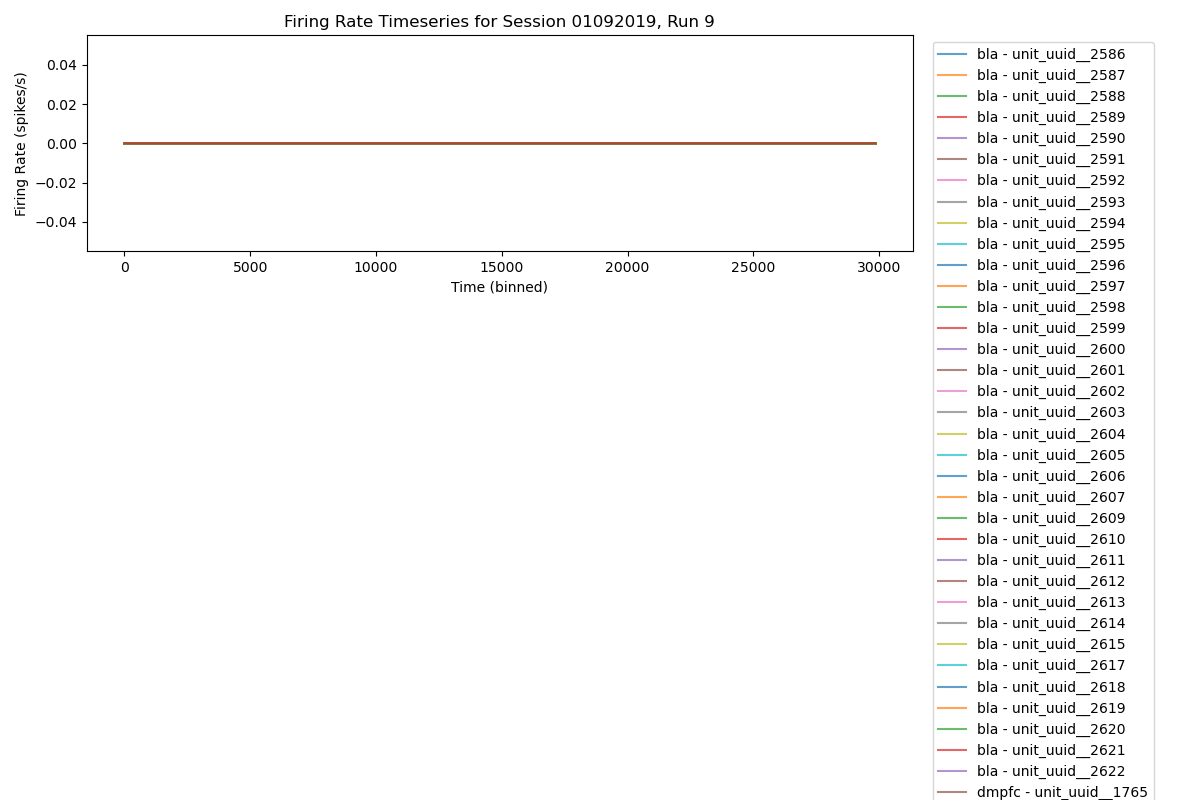
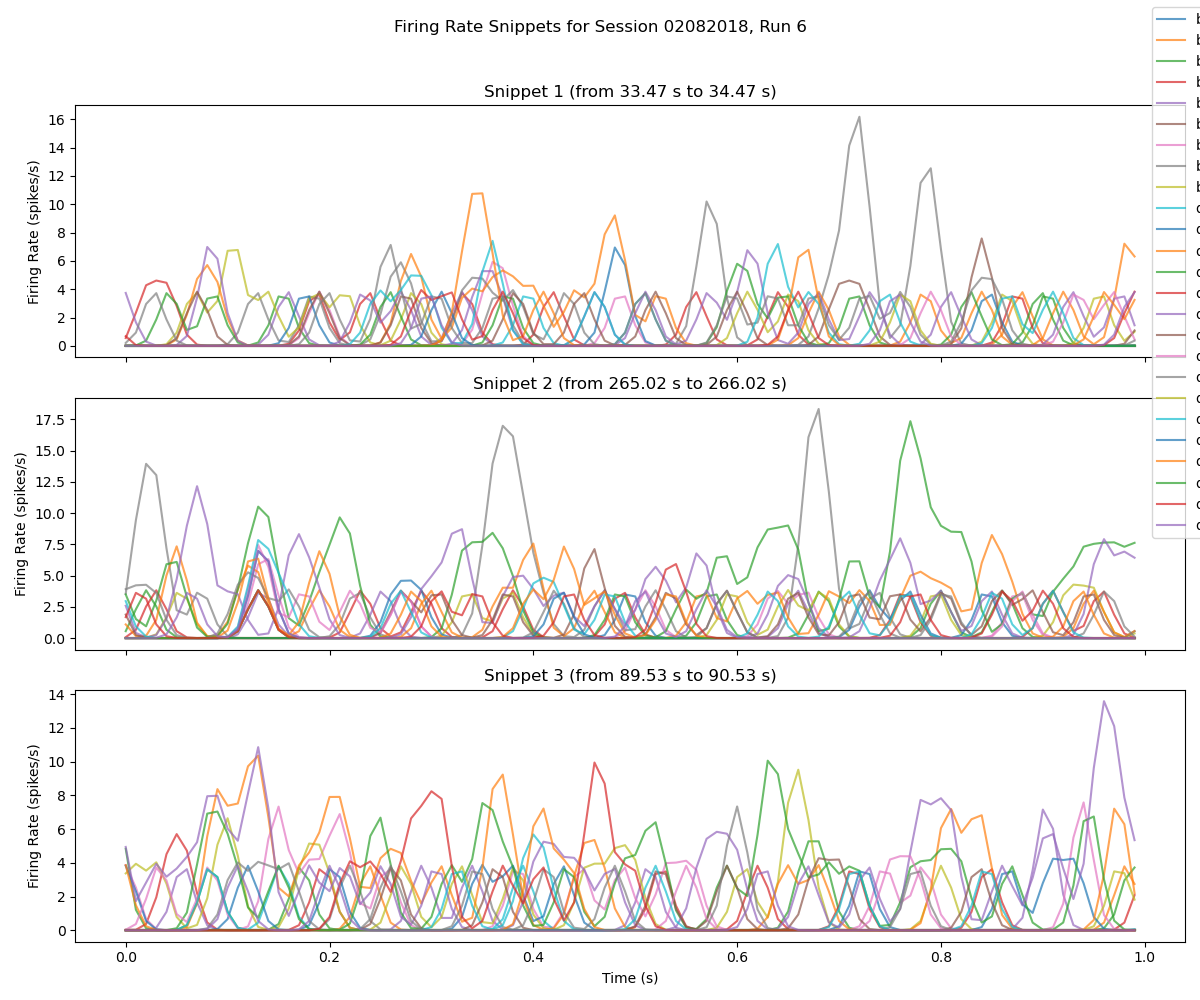
add spurm script to install pytorchh through conda because installation is tie consuming

diff --git a/plotter.py b/plotter.py
@@ -12,6 +12,7 @@ from matplotlib import cm
 from datetime import datetime
 from multiprocessing import Pool
 from tqdm import tqdm
+import random
 
 
 # Set up a logger for this script
@@ -198,44 +199,43 @@ def _overlay_roi_rects_for_run(agent_gaze_data, axs):
                                        edgecolor='red', facecolor='none'))
 
 
-
-
-import matplotlib.pyplot as plt
-import numpy as np
-import random
-
-def plot_random_run_timeseries(neural_fr_timeseries_df):
+def plot_random_run_snippets(neural_fr_timeseries_df, snippet_duration=1, bin_width=0.01):
     """
-    Plot firing rate timeseries for a random run in a random session for all units and regions, and save as plot.png.
+    Plot three random 1-second snippets of firing rate timeseries for a random run in a random session.
     Args:
         neural_fr_timeseries_df (pd.DataFrame): DataFrame with firing rate timeseries for each session, interaction type,
                                                 run, region, and unit.
+        snippet_duration (int): Duration of each snippet in seconds.
     """
     # Select a random session and run
     random_session = random.choice(neural_fr_timeseries_df['session_name'].unique())
     session_df = neural_fr_timeseries_df[neural_fr_timeseries_df['session_name'] == random_session]
     random_run = random.choice(session_df['run_number'].unique())
-    
     # Filter DataFrame for the selected session and run
     run_df = session_df[session_df['run_number'] == random_run]
-
-    # Plot firing rates for all units in all regions for this run
-    plt.figure(figsize=(12, 8))
-    for _, row in run_df.iterrows():
-        unit_timeseries = row['binned_neural_fr_in_run']
-        time_points = np.arange(len(unit_timeseries))  # Generate time points based on the length of the timeseries
-        
-        # Plot each unit's timeseries
-        plt.plot(time_points, unit_timeseries, label=f"{row['region']} - {row['unit_uuid']}", alpha=0.7)
-    
-    # Add labels and title
-    plt.xlabel("Time (binned)")
-    plt.ylabel("Firing Rate (spikes/s)")
-    plt.title(f"Firing Rate Timeseries for Session {random_session}, Run {random_run}")
-    plt.legend(loc="upper right", bbox_to_anchor=(1.3, 1.0))
-    plt.tight_layout()
-    
-    # Save the plot as plot.png
+    # Calculate the number of bins per snippet
+    bins_per_snippet = int(snippet_duration / bin_width)
+    sampling_rate = bins_per_snippet / snippet_duration
+    # Plot three random 1-second snippets in subplots
+    fig, axes = plt.subplots(3, 1, figsize=(12, 10), sharex=True)
+    fig.suptitle(f"Firing Rate Snippets for Session {random_session}, Run {random_run}")
+    for i, ax in enumerate(axes):
+        # Select a random start point for each snippet
+        max_start = len(run_df.iloc[0]['binned_neural_fr_in_run']) - bins_per_snippet
+        start_bin = random.randint(0, max_start)
+        end_bin = start_bin + bins_per_snippet
+        # Plot each unit's snippet within the chosen range
+        for _, row in run_df.iterrows():
+            unit_timeseries = row['binned_neural_fr_in_run'][start_bin:end_bin]
+            time_points = np.arange(len(unit_timeseries)) / sampling_rate  # Time in seconds
+            ax.plot(time_points, unit_timeseries, label=f"{row['region']} - {row['unit_uuid']}", alpha=0.7)
+        ax.set_title(f"Snippet {i + 1} (from {start_bin / sampling_rate:.2f} s to {end_bin / sampling_rate:.2f} s)")
+        ax.set_ylabel("Firing Rate (spikes/s)")
+    # Finalize plot
+    axes[-1].set_xlabel("Time (s)")
+    handles, labels = axes[-1].get_legend_handles_labels()
+    fig.legend(handles, labels, loc="upper right", bbox_to_anchor=(1.15, 1.0))
+    plt.tight_layout(rect=[0, 0, 1, 0.96])
     plt.savefig("plot.png")
     plt.close()
     print(f"Plot saved as plot.png for session {random_session}, run {random_run}")

diff --git a/modeling/train.py b/modeling/train.py
@@ -13,6 +13,7 @@ def main():
     params = {}
     params.update({
         'sampling_rate': 1 / 1000,
+
         'is_cluster': True,
         'is_grace': False,
         'use_parallel': True,
@@ -20,15 +21,23 @@ def main():
         'use_toy_data': False,
         'remake_toy_data': False,
         'num_cpus': None,
-        'do_local_reclustering_in_parallel': False,
+
+
         'remake_gaze_data_df': False,
+        'remake_spike_times_df': False,
         'remake_nan_removed_gaze_data_df': False,
+
         'remake_fix_and_sacc': False,
         'try_using_single_run': False,
         'recompute_fix_and_saccades_through_hpc_jobs': True,
         'hpc_job_output_subfolder': 'single_run_fix_saccade_results',
         'remake_binary_timeseries': False,
-        'remake_scaled_autocorr': False
+        'remake_scaled_autocorr': False,
+
+        'remake_neural_timeseries': False,
+        'neural_data_bin_size': 0.001,  #1ms = 0.001s
+        'downsample_bin_size': 0.01,
+        'smoothing_sigma': 10
     })
 
     # import and organize data

diff --git a/analyze_gaze_signals.py b/analyze_gaze_signals.py
@@ -44,10 +44,10 @@ def main():
         'remake_binary_timeseries': False,
         'remake_scaled_autocorr': False,
 
-        'remake_neural_timeseries': True,
+        'remake_neural_timeseries': False,
         'neural_data_bin_size': 0.001,  #1ms = 0.001s
         'downsample_bin_size': 0.01,
-        'smoothing_sigma': 2
+        'smoothing_sigma': 10
     })
     data_manager = DataManager(params)
     data_manager.run()

diff --git a/data_manager.py b/data_manager.py
@@ -221,7 +221,7 @@ class DataManager:
 
 
     def plot_data(self):
-        plotter.plot_random_run_timeseries(self.neural_fr_timeseries_df)
+        plotter.plot_random_run_snippets(self.neural_fr_timeseries_df)
 
 
     def run(self):
